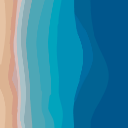
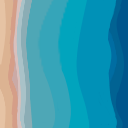
Now you can select tiles / areas

diff --git a/src/EvoDevo/js/game.js b/src/EvoDevo/js/game.js
@@ -128,6 +128,8 @@ function DrawMap() {
     ctx.clearRect(0, 0, width, height);
     ctx.fillStyle = "#00568C";
     ctx.fillRect(0, 0, width, height);
+    ctx.strokeStyle = "black";
+    ctx.lineWidth = 1;
 
     var size = 128;
     let i = 0;
@@ -147,6 +149,7 @@ function DrawMap() {
         }
     }
 
+    ctx.save();
     if (gridlines) {
         var strokeWidth = 1;
         var translate = strokeWidth % 2 / 2;
@@ -166,7 +169,7 @@ function DrawMap() {
             }
         }
     }
-
+    ctx.restore();
 }
 
 function getCanvasThemeColor(name) {
@@ -205,17 +208,32 @@ function CanvasClick(name, evt) {
     let y = Math.floor(mousePos.y); 
     let col = Math.floor(x/128);
     let row = Math.floor(y / 128);
-    let t = col+row*4+1;
-    
-    let r = Math.floor(Math.random() * 12) + 1; //TODO tmp
+    let t = col + row * 4 + 1;
+    selectedArea = areas[t];
 
     switch (name) {
         case 'mapview':
-             GetListData(t, 'area'); 
+            GetListData(t, 'area'); 
+            SelectArea(t, col, row);
             break;
         default:
             //console.log('Click on ' + name + ' not yet implemented!');
     }
+}
+
+function SelectArea(t, col, row) {
+    DrawMap();
+    var size = 128;
+    ctx.save();
+    ctx.strokeStyle = "white";
+    ctx.lineWidth = 2;
+    var x = col * size + 2;
+    var y = row * size + 2;
+    ctx.rect(x, y, size-4, size-4);
+    ctx.globalAlpha = 0.5;
+    ctx.stroke();
+    ctx.restore();
+
 }
 
 function ListItemClick(itemid, itemlist) {
